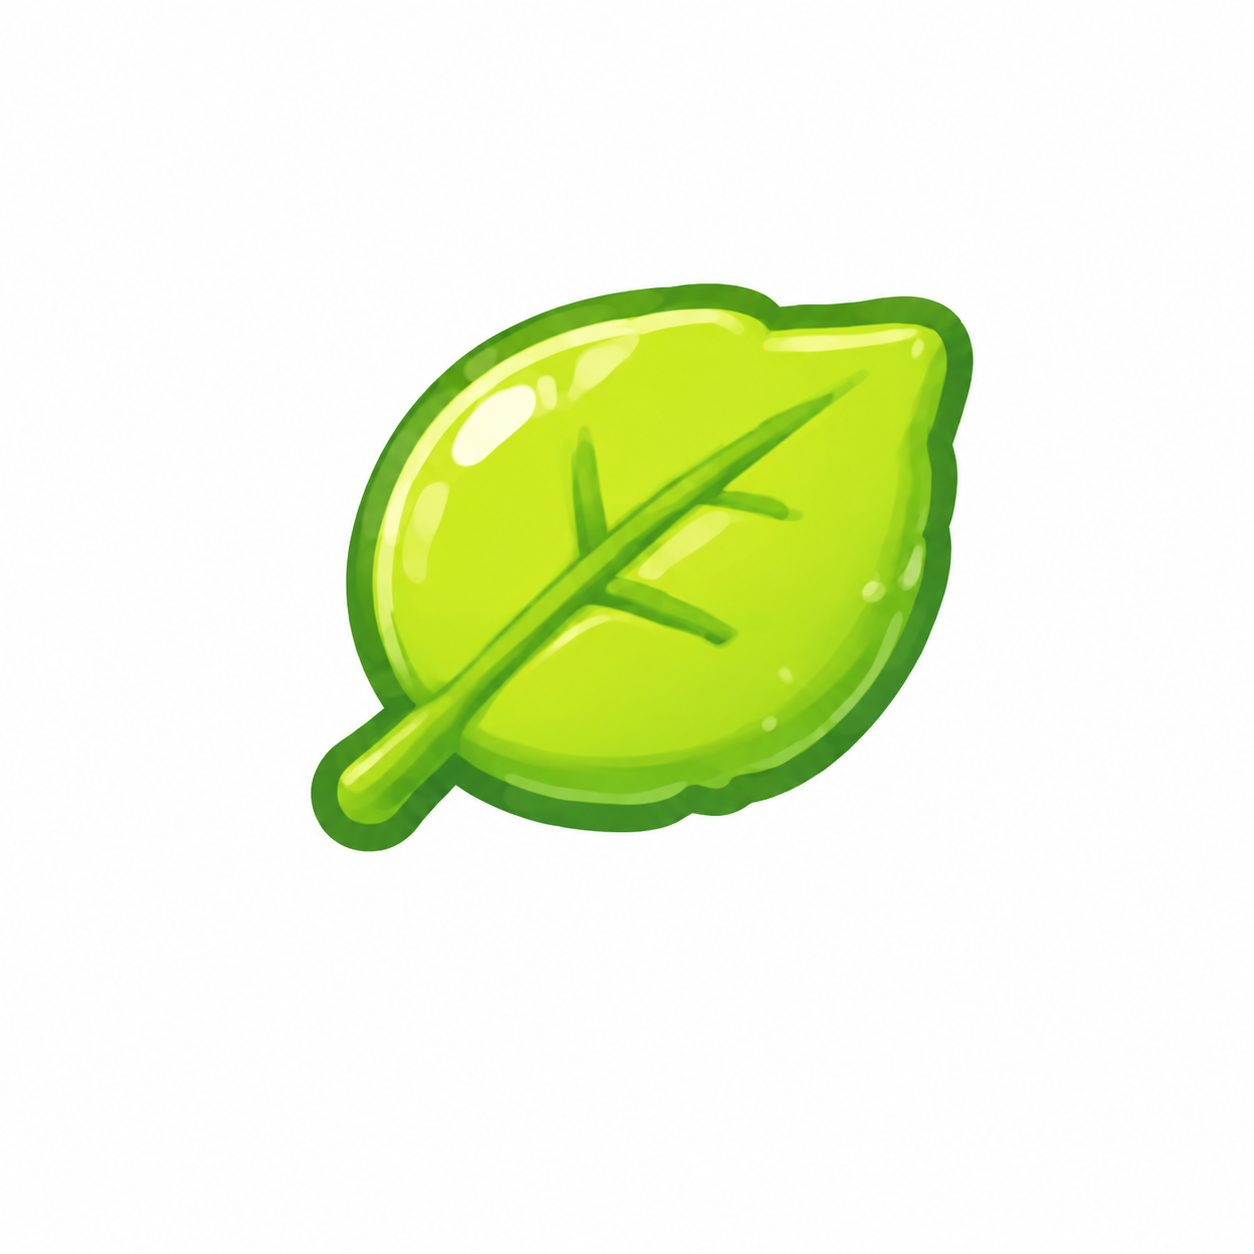
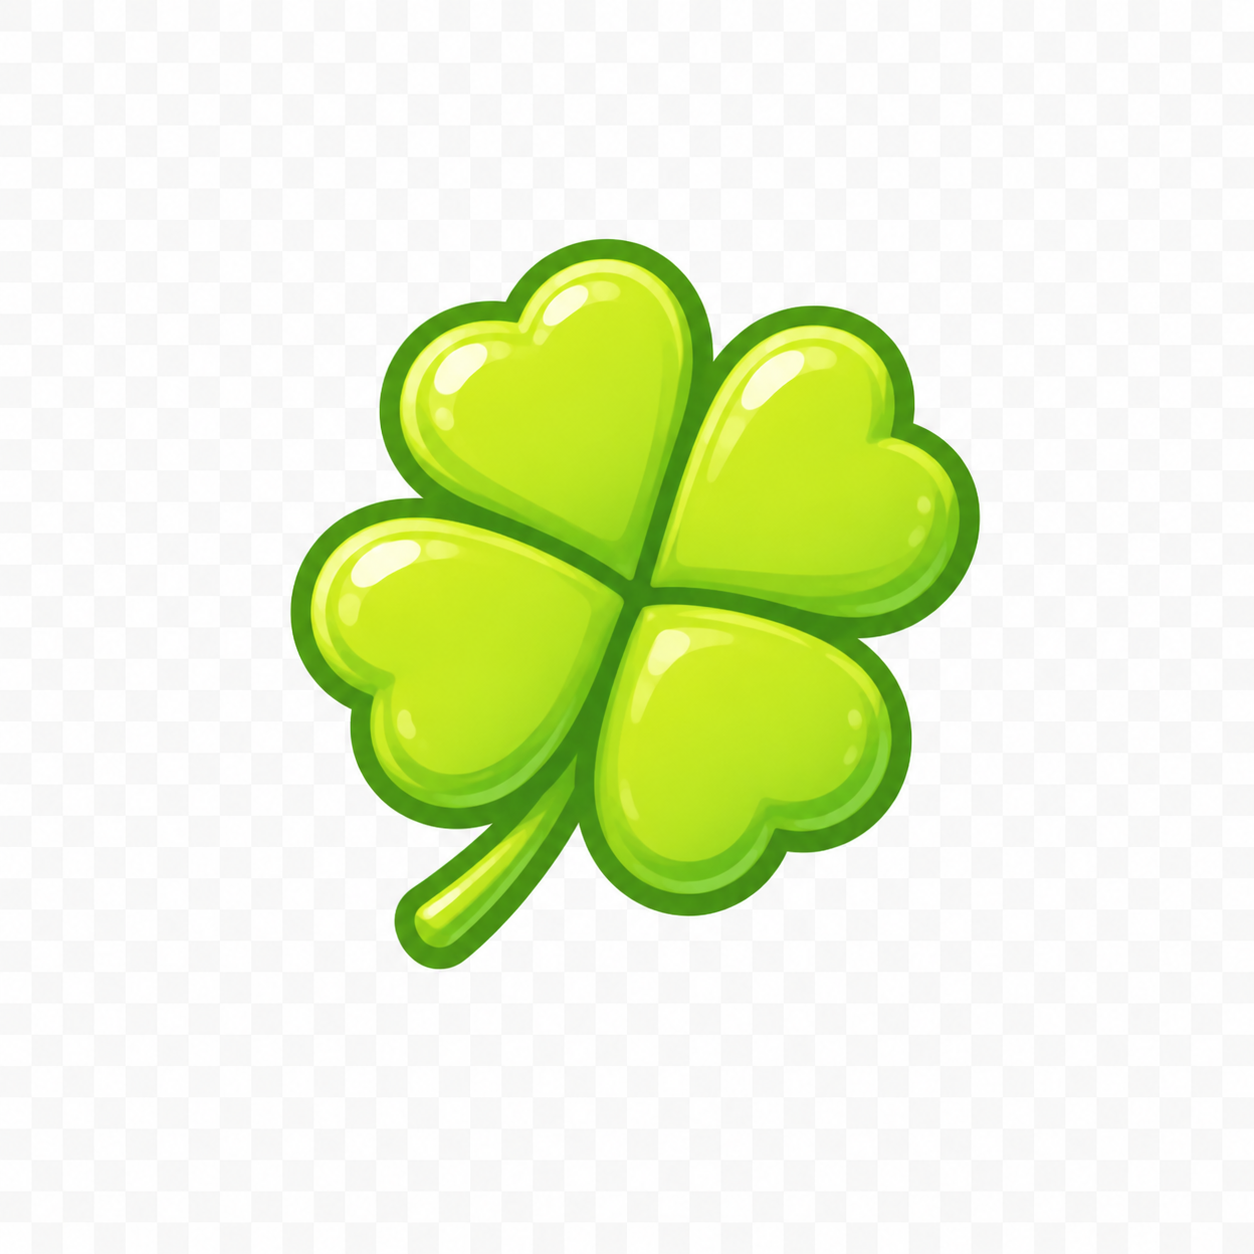
네비바 다듬기: 아이콘 크기/라벨 위치 조정 + 사탕→아이스크림 워딩
- 라벨 위로 올려 바 하단 테두리와 겹침 해소
- 하트 아이콘 70% 크기로 축소(아이콘별 크기 지정)
- 클로버/아이스크림(구 사탕) 아이콘 이미지 교체
- 네비바 라벨·강아지/왕자 대사의 '사탕' → '아이스크림', 왕자 멘트에 '오른쪽 뽑기 기계에서' 추가

Changed region(s): [[0.2177, 0.1866, 0.8086, 0.7775]]

diff --git a/src/routes/index.tsx b/src/routes/index.tsx
@@ -305,7 +305,7 @@ function LetterScreen({ onBack, onNext }: { onBack: () => void; onNext: () => vo
 
 // ───────────────────────── 축제 맵 허브 (스토리보드 C-SCREEN) ─────────────────────────
 // 장소(사진 부스·뽑기)와 친구들(강아지·왕자·주민)을 눌러 아이템을 모은다.
-//   강아지 → 🍬사탕 → 왕자에게 → ❤️하트 / 사진 촬영 → 📷 → 주민에게 → 🍀클로버 → 뽑기 해금
+//   강아지 → 🍦아이스크림 → 왕자에게 → ❤️하트 / 사진 촬영 → 📷 → 주민에게 → 🍀클로버 → 뽑기 해금
 
 // 흰 배경으로 내보내진 PNG(흰색이 alpha=255)의 흰 픽셀을 투명 처리한 data URL을 만든다.
 // 단, 네 모서리가 불투명 흰색일 때만 동작 — 이미 투명한 이미지(예: 흰 물방울 무늬 사탕)는
@@ -345,11 +345,11 @@ function useWhiteKeyed(src: string): string {
 }
 
 // 클로버=나뭇잎이라 아이콘은 총 4개. 빈 바(nav_bar_empty) 위 균등 4칸(dstCx)에 등장시킨다.
-const NAV_ICONS: { key: keyof Inventory; label: string; src: string; dstCx: number }[] = [
-  { key: "photo", label: "사진", src: navIconPhoto, dstCx: 0.2 },
-  { key: "clover", label: "클로버", src: navIconClover, dstCx: 0.4 },
-  { key: "candy", label: "사탕", src: navIconCandy, dstCx: 0.6 },
-  { key: "heart", label: "하트", src: navIconHeart, dstCx: 0.8 },
+const NAV_ICONS: { key: keyof Inventory; label: string; src: string; dstCx: number; h: number }[] = [
+  { key: "photo", label: "사진", src: navIconPhoto, dstCx: 0.2, h: 92 },
+  { key: "clover", label: "클로버", src: navIconClover, dstCx: 0.4, h: 92 },
+  { key: "candy", label: "아이스크림", src: navIconCandy, dstCx: 0.6, h: 92 },
+  { key: "heart", label: "하트", src: navIconHeart, dstCx: 0.8, h: 64 },
 ];
 
 function FestivalMap({
@@ -438,15 +438,15 @@ function FestivalMap({
   const tapDog = () => {
     if (!inv.candy) {
       setInv((v) => ({ ...v, candy: true }));
-      say("강아지 🐶", "아이스크림 사탕을 멋진 주인님(왕자)에게 가져다줘! 🍬");
-    } else say("강아지 🐶", "왕자님께 사탕을 전해줘!");
+      say("강아지 🐶", "아이스크림을 멋진 주인님(왕자)에게 가져다줘! 🍦");
+    } else say("강아지 🐶", "왕자님께 아이스크림을 전해줘!");
   };
   const tapPrince = () => {
     if (inv.candy && !inv.heart) {
       setInv((v) => ({ ...v, heart: true }));
-      say("왕자 🤴", "고마워! 사진 찍고 행운의 아이스크림을 뽑아봐! ❤️");
+      say("왕자 🤴", "고마워! 사진 찍고 오른쪽 뽑기 기계에서 행운의 아이스크림을 뽑아봐! ❤️");
     } else if (!inv.candy) say("왕자 🤴", "사진을 찍으면 전설의 뽑기 클로버를 준대~");
-    else say("왕자 🤴", "사진 찍고 행운의 아이스크림을 뽑아봐!");
+    else say("왕자 🤴", "사진 찍고 오른쪽 뽑기 기계에서 행운의 아이스크림을 뽑아봐!");
   };
   const tapResident = () => {
     if (inv.photo && !inv.clover) {
@@ -555,15 +555,15 @@ function FestivalMap({
                     src={navIconSrc[it.key]}
                     alt={it.label}
                     draggable={false}
-                    className="pointer-events-none absolute h-[92%] -translate-x-1/2 -translate-y-1/2 select-none"
-                    style={{ left: `${it.dstCx * 100}%`, top: "44%" }}
+                    className="pointer-events-none absolute -translate-x-1/2 -translate-y-1/2 select-none"
+                    style={{ left: `${it.dstCx * 100}%`, top: "44%", height: `${it.h}%` }}
                   />
                 )}
                 <span
                   className="pointer-events-none absolute -translate-x-1/2 -translate-y-1/2 text-[10px] font-extrabold"
                   style={{
                     left: `${it.dstCx * 100}%`,
-                    top: "90%",
+                    top: "80%",
                     color: "#c44a78",
                     opacity: inv[it.key] ? 1 : 0.5,
                   }}